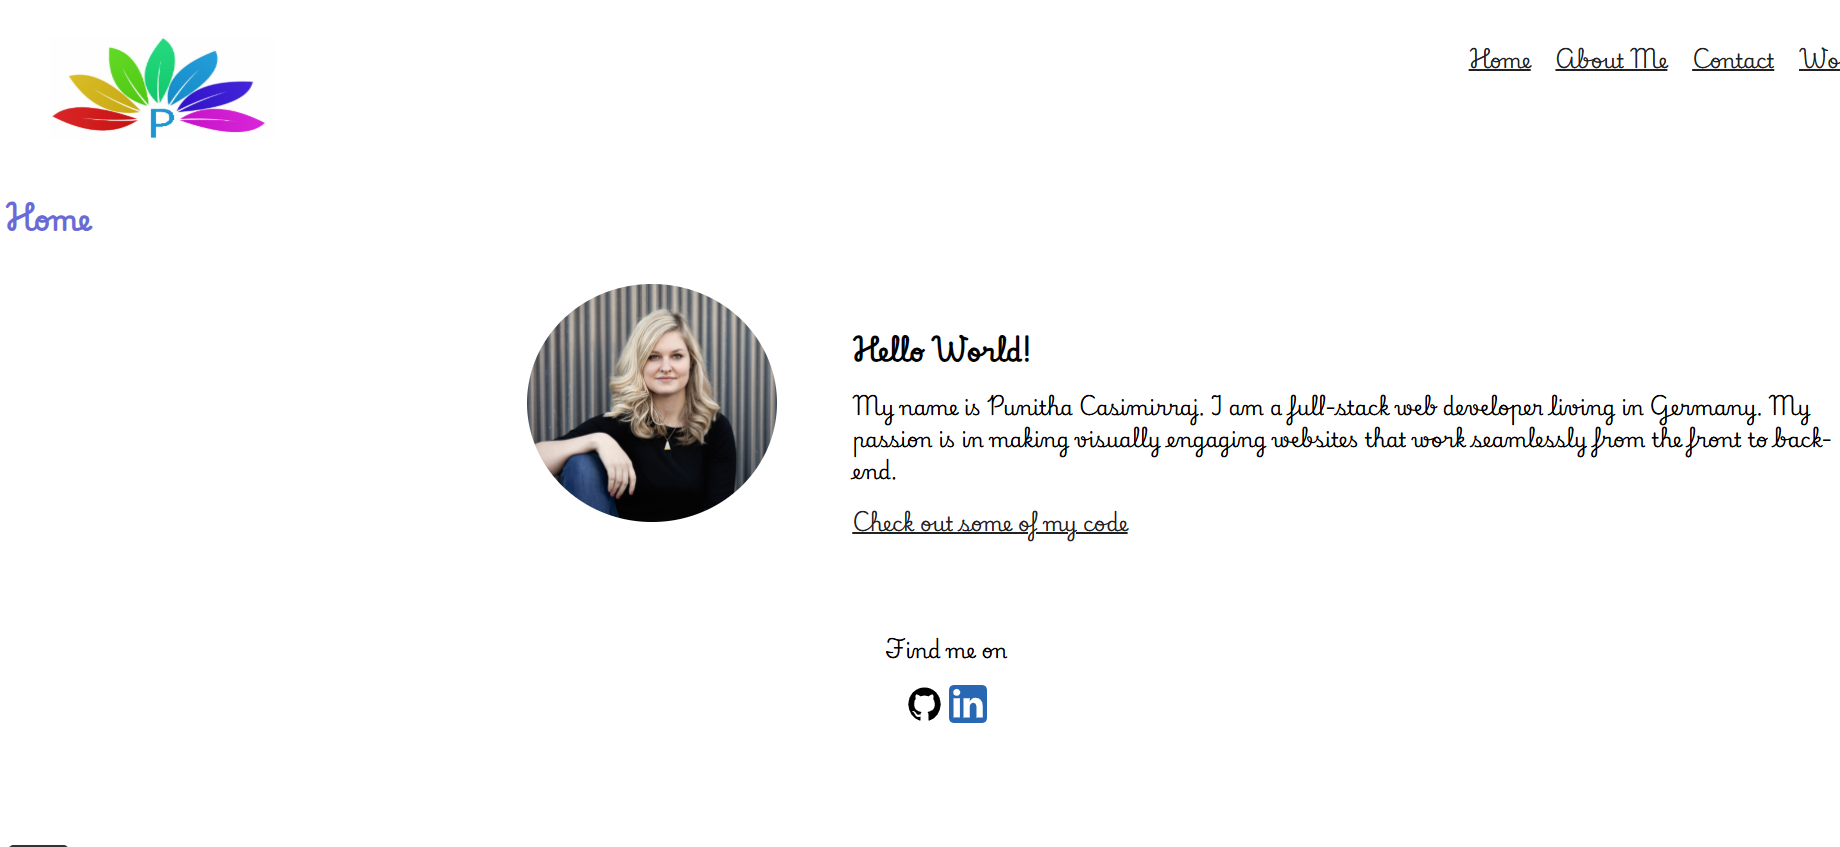
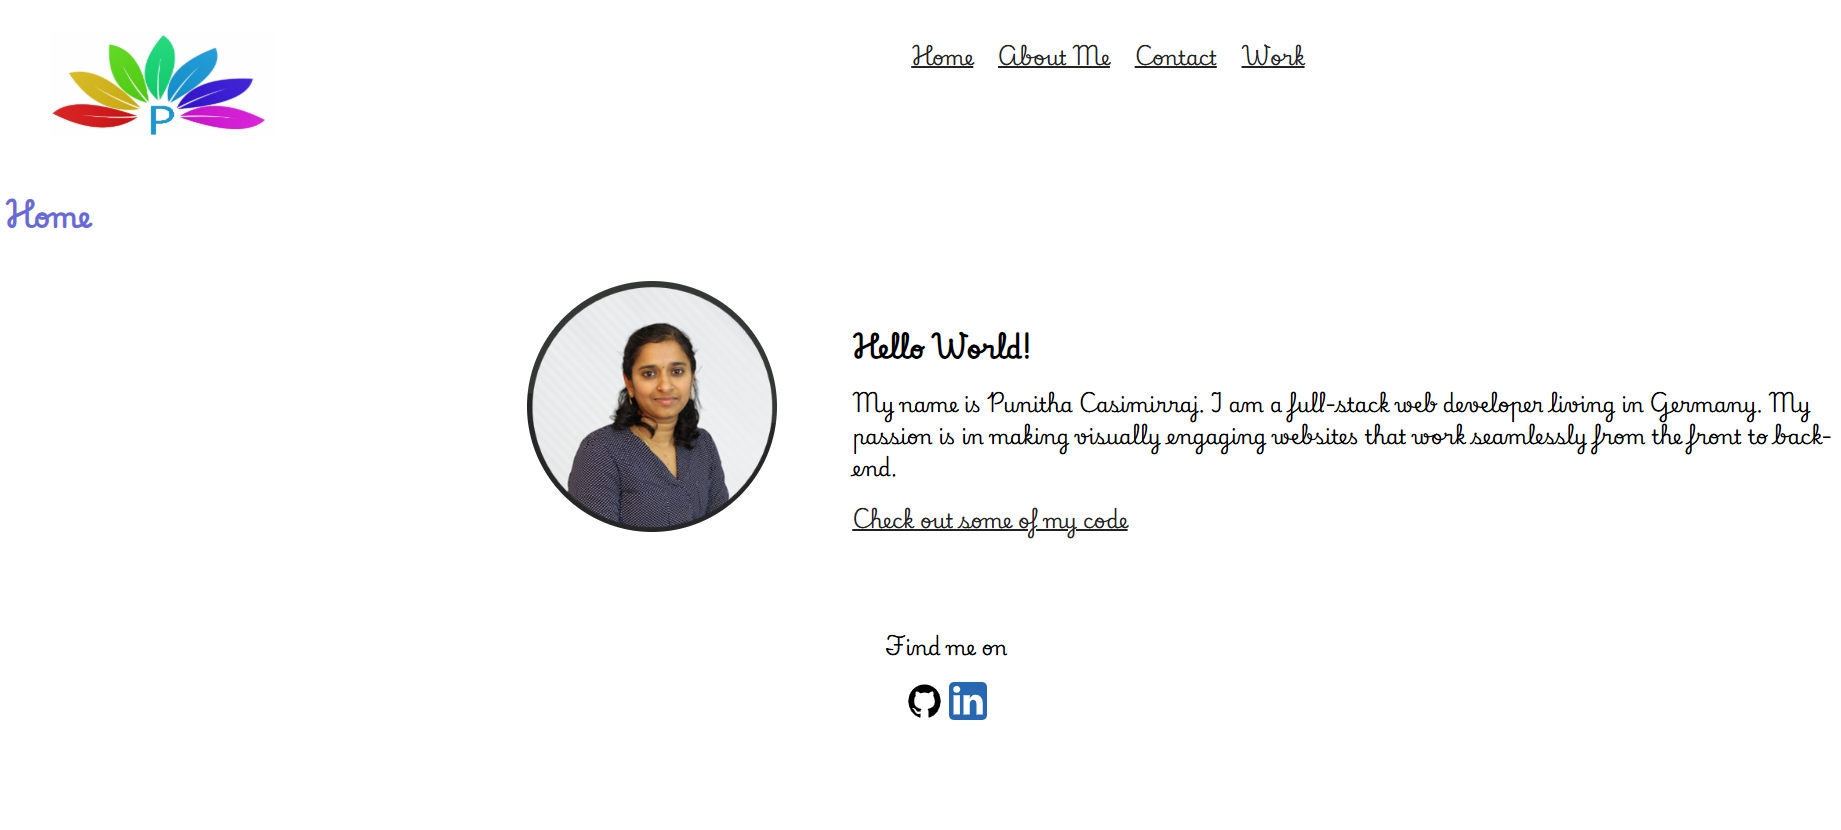
Updated Images and nav bar alignment
Updated  profile image, my portfolio image, Nav bar alignment

diff --git a/index.html b/index.html
@@ -43,7 +43,7 @@
         </div>
         <div class="page-main-portrait">
             <div class="page-main-portrait-item">
-                <img src="images/lisa-gringl.png" alt="Lisa Gringl Portrait" class="portrait-img">
+                <img src="images/Punitha_Pic.png" alt="Lisa Gringl Portrait" class="portrait-img">
             </div>
             <div class="page-main-portrait-item">
                 <h2>Hello World!</h2>

diff --git a/contact.html b/contact.html
@@ -103,7 +103,7 @@
 	<main>
 		<div>
 			<h1>Contact Lisa Gringl</h1>
-			<form action="" method="post">
+			<form action="/" method="get" id="contact-form" onsubmit="alert('Thanks for reaching out!')">
 
 				<label for="name">Name:</label>
 				<input type="text" id="name" name="user-name" placeholder="Your name" required /><br>

diff --git a/css/style.production.css b/css/style.production.css
@@ -113,7 +113,7 @@ button {
     -webkit-box-flex: 1;
     -ms-flex-positive: 1;
     flex-grow: 1;
-    text-align: right;
+    text-align: center;
 }
 
 .navigation-list {
